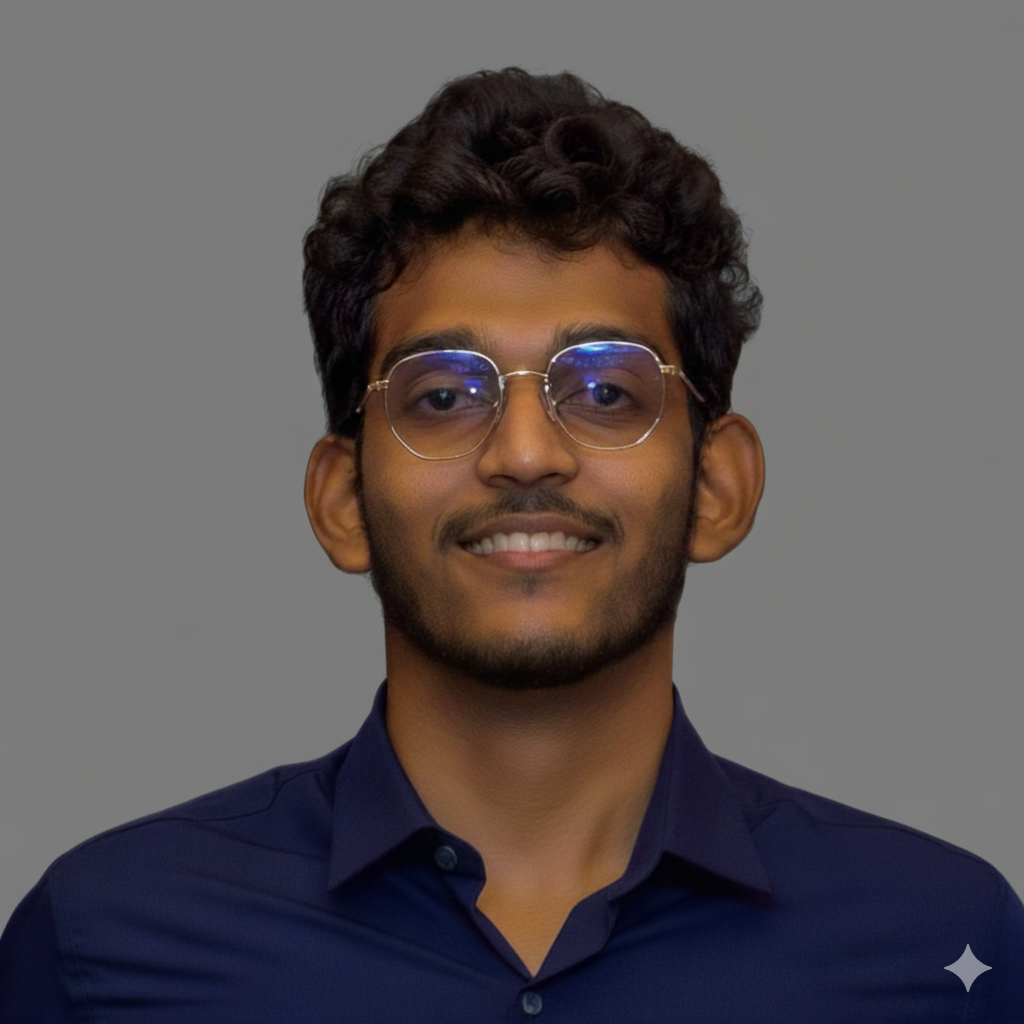
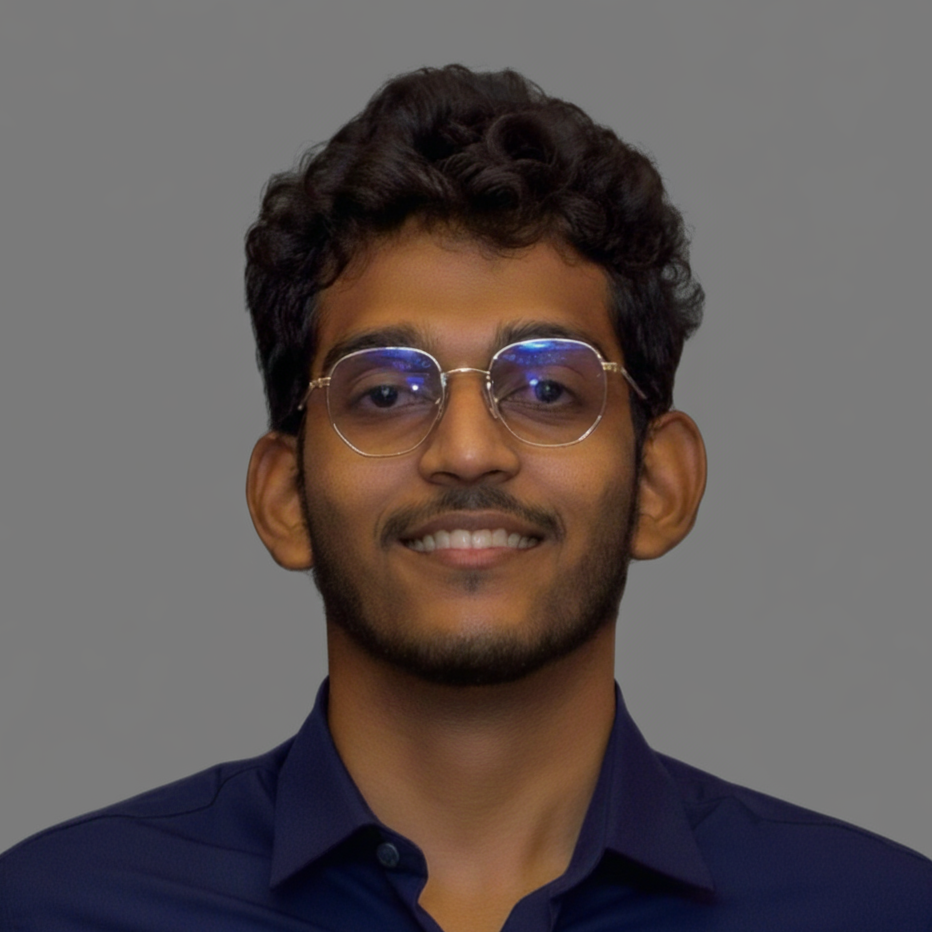
dp croped

diff --git a/components/Notificationsystem.tsx b/components/Notificationsystem.tsx
@@ -142,12 +142,12 @@ const NotificationItem: React.FC<NotificationItemProps> = ({ notification, onClo
       role="alert"
       aria-live="polite"
     >
-      <div className="flex items-start gap-4 p-5">
-        <div className={`flex-shrink-0 ${colors.icon} mt-0.5`}>
+      <div className="flex items-start gap-0 p-2 h-[50px]">
+        <div className={`flex-shrink-0 ${colors.icon} mt-0`}>
           {getIcon()}
         </div>
-        <div className="flex-1 min-w-0">
-          <h4 className={`font-bold text-lg mb-1 ${darkMode ? 'text-white' : 'text-gray-900'}`}>
+        <div className="flex-1 min-w-0 mt-0">
+          <h4 className={`font-bold text-m mb-1 ${darkMode ? 'text-white' : 'text-gray-900'}`}>
             {notification.title}
           </h4>
           <p className={`text-sm ${darkMode ? 'text-gray-300' : 'text-gray-600'}`}>
@@ -168,9 +168,9 @@ const NotificationItem: React.FC<NotificationItemProps> = ({ notification, onClo
           <X className="w-5 h-5" />
         </button>
       </div>
-      <div className="h-1 bg-gray-200 dark:bg-gray-700 overflow-hidden">
+      <div className="h-[0.5] bg-gray-200 dark:bg-gray-700 overflow-hidden">
         <div
-          className={`h-full ${colors.progress} transition-all duration-100 ease-linear`}
+          className={`h-[100%] ${colors.progress} transition-all duration-100 ease-linear`}
           style={{ width: `${progress}%` }}
         />
       </div>
@@ -190,7 +190,7 @@ export const NotificationProvider: React.FC<NotificationProviderProps> = ({ chil
     type: NotificationType,
     title: string,
     message: string,
-    duration: number = 5000
+    duration: number = 1000
   ) => {
     const id = Date.now().toString() + Math.random().toString(36);
     const newNotification: Notification = { id, type, title, message, duration };
@@ -204,12 +204,12 @@ export const NotificationProvider: React.FC<NotificationProviderProps> = ({ chil
   return (
     <NotificationContext.Provider value={{ showNotification }}>
       {children}
-      <div className="fixed top-4 right-4 z-[9999] flex flex-col gap-3 pointer-events-none max-w-md w-full px-4">
+      <div className="fixed top-5 left-4 z-[9999] flex flex-col gap-3 pointer-events-none max-w-md w-full px-4">
         <style jsx global>{`
-          @keyframes slideInRight {
+          @keyframes slideInLeft {
             from {
               opacity: 0;
-              transform: translateX(100%) scale(0.95);
+              transform: translateX(-100%) scale(0.55);
             }
             to {
               opacity: 1;
@@ -217,24 +217,24 @@ export const NotificationProvider: React.FC<NotificationProviderProps> = ({ chil
             }
           }
 
-          @keyframes slideOutRight {
+          @keyframes slideOutLeft {
             from {
               opacity: 1;
               transform: translateX(0) scale(1);
             }
             to {
               opacity: 0;
-              transform: translateX(100%) scale(0.95);
+              transform: translateX(-100%) scale(0.55);
             }
           }
 
           .notification-enter {
             pointer-events: auto;
-            animation: slideInRight 0.4s cubic-bezier(0.16, 1, 0.3, 1);
+            animation: slideInLeft 0.4s cubic-bezier(0.16, -10, 0, 1);
           }
 
           .notification-exit {
-            animation: slideOutRight 0.3s cubic-bezier(0.4, 0, 1, 1);
+            animation: slideOutLeft 0.3s cubic-bezier(0.4, 0, 1, 1);
           }
         `}</style>
         {notifications.map((notification) => (
